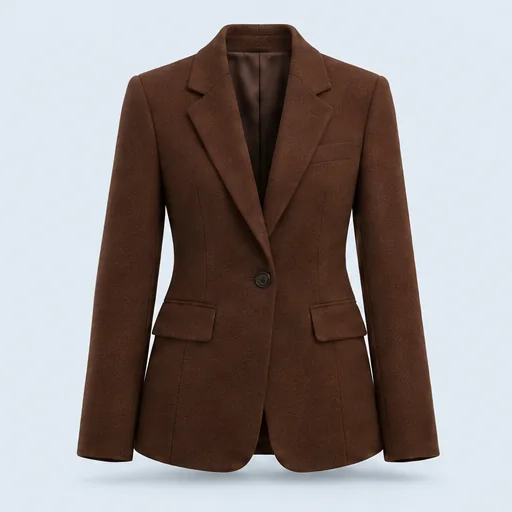
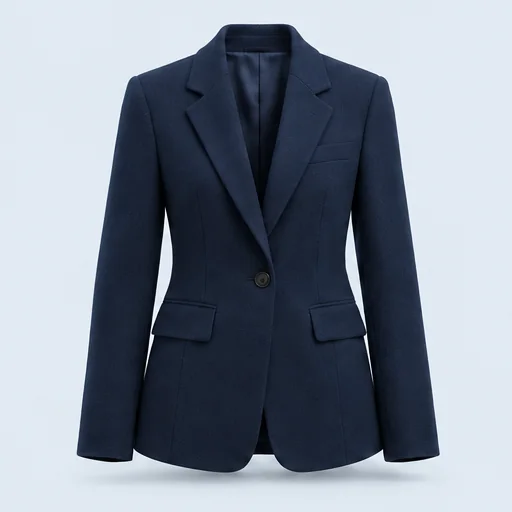
Coordinar las prendas y sus variantes con la paleta NTT-BATA

diff --git a/modelo.js b/modelo.js
@@ -17,24 +17,44 @@
 
   const sizes = ['S', 'M', 'L'];
   const products = [
-    { id: 'americana', name: 'Americana Siena', category: 'Chaquetas', description: 'Corte recto, solapa clásica y tejido suave con cuerpo.', price: 79.90, tone: '#d2b49d', colors: ['Cacao', 'Arena'], sizes },
-    { id: 'camisa', name: 'Camisa Niebla', category: 'Camisas', description: 'Popelín de algodón, puño abotonado y silueta holgada.', price: 39.90, tone: '#e3d9c7', colors: ['Marfil', 'Azul'], sizes },
-    { id: 'pantalon', name: 'Pantalón Olmo', category: 'Pantalones', description: 'Pantalón recto de tiro alto con pinzas y bolsillos laterales.', price: 49.90, tone: '#c9b9a7', colors: ['Negro', 'Arena'], sizes: ['36', '38', '40', '42'] },
-    { id: 'jersey', name: 'Jersey Bruma', category: 'Punto', description: 'Punto acanalado, cuello redondo y manga larga.', price: 45.90, tone: '#c99c99', colors: ['Burdeos', 'Avena'], sizes },
-    { id: 'gabardina', name: 'Gabardina Alba', category: 'Abrigos', description: 'Gabardina cruzada de largo medio con cinturón ajustable.', price: 99.90, tone: '#d6bea3', colors: ['Camel', 'Oliva'], sizes },
-    { id: 'bolso', name: 'Bolso Lúa', category: 'Accesorios', description: 'Bolso al hombro con cierre de cremallera y bolsillo interior.', price: 34.90, tone: '#d6c5af', colors: ['Negro', 'Cacao'], sizes: ['Única'] },
-  ].map((product, productIndex) => ({
-    ...product,
-    image: `img/${product.id}.webp?v=fondo-azul`,
-    variants: product.colors.flatMap((color, colorIndex) => product.sizes.map((size, sizeIndex) => ({
-      color,
-      size,
-      stock: Object.fromEntries(stores.map(({ id }, storeIndex) => {
-        const quantity = (productIndex * 3 + colorIndex * 5 + sizeIndex * 2 + storeIndex * 3 + 5) % 9;
-        return [id, quantity];
-      })),
-    }))),
-  }));
+    { id: 'americana', name: 'Americana Siena', category: 'Chaquetas', description: 'Corte recto, solapa clásica y tejido suave con cuerpo.', price: 79.90, tone: '#c7d4e1', colors: ['Marino', 'Gris pizarra'], sizes },
+    { id: 'camisa', name: 'Camisa Niebla', category: 'Camisas', description: 'Popelín de algodón, puño abotonado y silueta holgada.', price: 39.90, tone: '#d6e2eb', colors: ['Marfil', 'Azul hielo'], sizes },
+    { id: 'pantalon', name: 'Pantalón Olmo', category: 'Pantalones', description: 'Pantalón recto de tiro alto con pinzas y bolsillos laterales.', price: 49.90, tone: '#cbd6e2', colors: ['Grafito', 'Azul pizarra'], sizes: ['36', '38', '40', '42'] },
+    { id: 'jersey', name: 'Jersey Bruma', category: 'Punto', description: 'Punto acanalado, cuello redondo y manga larga.', price: 45.90, tone: '#c3d8df', colors: ['Verde petróleo', 'Gris perla'], sizes },
+    { id: 'gabardina', name: 'Gabardina Alba', category: 'Abrigos', description: 'Gabardina cruzada de largo medio con cinturón ajustable.', price: 99.90, tone: '#d1dae3', colors: ['Gris piedra', 'Azul niebla'], sizes },
+    { id: 'bolso', name: 'Bolso Lúa', category: 'Accesorios', description: 'Bolso al hombro con cierre de cremallera y bolsillo interior.', price: 34.90, tone: '#c9d7e4', colors: ['Negro', 'Azul marino'], sizes: ['Única'] },
+  ].map((product, productIndex) => {
+    const [primary, alternate] = product.colors;
+    const image = `img/${product.id}.webp?v=paleta-prendas`;
+    return {
+      ...product,
+      image,
+      images: { [primary]: image, [alternate]: `img/${product.id}-alternativo.webp?v=paleta-prendas` },
+      variants: product.colors.flatMap((color, colorIndex) => product.sizes.map((size, sizeIndex) => ({
+        color,
+        size,
+        stock: Object.fromEntries(stores.map(({ id }, storeIndex) => {
+          const quantity = (productIndex * 3 + colorIndex * 5 + sizeIndex * 2 + storeIndex * 3 + 5) % 9;
+          return [id, quantity];
+        })),
+      }))),
+    };
+  });
+
+  // Previous reservation lines keep their labels and continue using the same stock.
+  const previousColors = {
+    americana: { Cacao: 'Marino', Arena: 'Gris pizarra' },
+    camisa: { Azul: 'Azul hielo' },
+    pantalon: { Negro: 'Grafito', Arena: 'Azul pizarra' },
+    jersey: { Burdeos: 'Verde petróleo', Avena: 'Gris perla' },
+    gabardina: { Camel: 'Gris piedra', Oliva: 'Azul niebla' },
+    bolso: { Cacao: 'Azul marino' },
+  };
+
+  function catalogColor(productId, color) {
+    const aliases = previousColors[productId];
+    return aliases && Object.hasOwn(aliases, color) ? aliases[color] : color;
+  }
 
   const categories = [...new Set(products.map(({ category }) => category))];
   const statuses = { pending: 'Pendiente', collected: 'Recogida', cancelled: 'Cancelada', expired: 'Vencida' };
@@ -44,12 +64,12 @@
 
   function seed(now) {
     const examples = [
-      ['centro', 'online', 'pending', 'americana', 'Cacao', 'M', 'Andrea Demo', 3 * hour],
+      ['centro', 'online', 'pending', 'americana', 'Marino', 'M', 'Andrea Demo', 3 * hour],
       ['centro', 'store', 'pending', 'camisa', 'Marfil', 'S', 'Álex Demo', 12 * hour],
-      ['campus', 'online', 'pending', 'jersey', 'Burdeos', 'M', 'Nuria Demo', 27 * hour],
+      ['campus', 'online', 'pending', 'jersey', 'Verde petróleo', 'M', 'Nuria Demo', 27 * hour],
       ['ciudad-real', 'online', 'collected', 'bolso', 'Negro', 'Única', 'Dani Demo', 3 * day],
-      ['centro', 'online', 'cancelled', 'pantalon', 'Negro', '38', 'Mar Demo', 5 * day],
-      ['campus', 'store', 'expired', 'gabardina', 'Camel', 'S', 'Luz Demo', 4 * day],
+      ['centro', 'online', 'cancelled', 'pantalon', 'Grafito', '38', 'Mar Demo', 5 * day],
+      ['campus', 'store', 'expired', 'gabardina', 'Gris piedra', 'S', 'Luz Demo', 4 * day],
     ];
 
     return {
@@ -158,14 +178,18 @@
 
   function availableStock(state, productId, color, size, storeId) {
     const product = products.find(({ id }) => id === productId);
-    const variant = product?.variants.find(item => item.color === color && item.size === size);
-    const base = variant?.stock[storeId] ?? 0;
+    const currentColor = catalogColor(productId, color);
+    const variant = product?.variants.find(item => item.color === currentColor && item.size === size);
+    const base = variant?.stock[storeId];
+    if (!base) return 0;
     const reservations = state.reservations.filter(item => item.status === 'pending' || item.status === 'collected');
     const holds = state.payments.filter(item => item.status === 'waiting');
     const used = [...reservations, ...holds].reduce((quantity, reservation) => {
       if (reservation.storeId !== storeId) return quantity;
-      const item = reservation.items.find(line => line.productId === productId && line.color === color && line.size === size);
-      return quantity + (item?.quantity ?? 0);
+      return reservation.items.reduce((total, line) => {
+        const matches = line.productId === productId && line.size === size && catalogColor(productId, line.color) === currentColor;
+        return matches ? total + line.quantity : total;
+      }, quantity);
     }, 0);
     return Math.max(0, base - used);
   }
@@ -178,9 +202,10 @@
     requireStore(storeId);
     if (!Array.isArray(items) || !items.length) throw new Error('Añade al menos un producto a la reserva.');
     const grouped = new Map();
-    for (const { productId, color, size, quantity, storeId: lineStoreId } of items) {
+    for (const { productId, color: requestedColor, size, quantity, storeId: lineStoreId } of items) {
       if (lineStoreId && lineStoreId !== storeId) throw new Error('Todos los productos deben recogerse en la misma tienda.');
       if (!Number.isSafeInteger(quantity) || quantity <= 0) throw new Error('Indica una cantidad válida.');
+      const color = catalogColor(productId, requestedColor);
       const key = [productId, color, size].join('\n');
       const previous = grouped.get(key);
       grouped.set(key, { productId, color, size, quantity: (previous?.quantity ?? 0) + quantity });

diff --git a/cliente.js b/cliente.js
@@ -59,7 +59,7 @@
           html(product.name) + '">' + html(product.name) + '</button></h3><span class="price">' +
           (discountPercent ? '<del>' + bata.money(originalPrice) + '</del>' : '') + bata.money(price) +
         '</span></div>' +
-        '<p>' + product.colors.length + ' colores</p>' +
+        '<p>' + html(product.colors[0]) + ' · ' + product.colors.length + ' colores</p>' +
         '<p class="product-stock' + (available ? ' in-stock' : '') + '">' +
           (available ? 'Disponible en tienda' : 'Agotado en esta tienda') + '</p>' +
       '</article>';
@@ -165,6 +165,12 @@
   function updateVariant() {
     const { value: color } = get('detalle-color');
     const { value: size } = get('detalle-talla');
+    const picture = content.querySelector('.product-detail img');
+    const image = productDetail.images[color];
+    if (picture.getAttribute('src') !== image) {
+      picture.src = image;
+      picture.alt = productDetail.name + ' en ' + color;
+    }
     const variant = variantDetails(productDetail, color, size);
     const stock = variant ? bata.stock(productDetail.id, color, size, storeId) : 0;
     const wrongStore = cartStore && cartStore !== storeId;

diff --git a/index.html b/index.html
@@ -12,11 +12,11 @@
   <link rel="stylesheet" href="https://fonts.googleapis.com/css2?family=Archivo+Narrow:wght@500;600;700&amp;family=DM+Sans:wght@400;500;600;700&amp;display=swap">
   <link rel="stylesheet" href="estilos.css?v=fondo-azul">
   <link rel="stylesheet" href="operaciones.css?v=ntt-bata">
-  <script defer src="modelo.js?v=fondo-azul"></script>
+  <script defer src="modelo.js?v=paleta-prendas"></script>
   <script defer src="qr.js"></script>
   <script defer src="lector-qr.js"></script>
   <script defer src="operaciones.js"></script>
-  <script defer src="cliente.js?v=ntt-bata"></script>
+  <script defer src="cliente.js?v=paleta-prendas"></script>
 </head>
 <body>
   <a class="skip" href="#contenido">Saltar al contenido</a>
